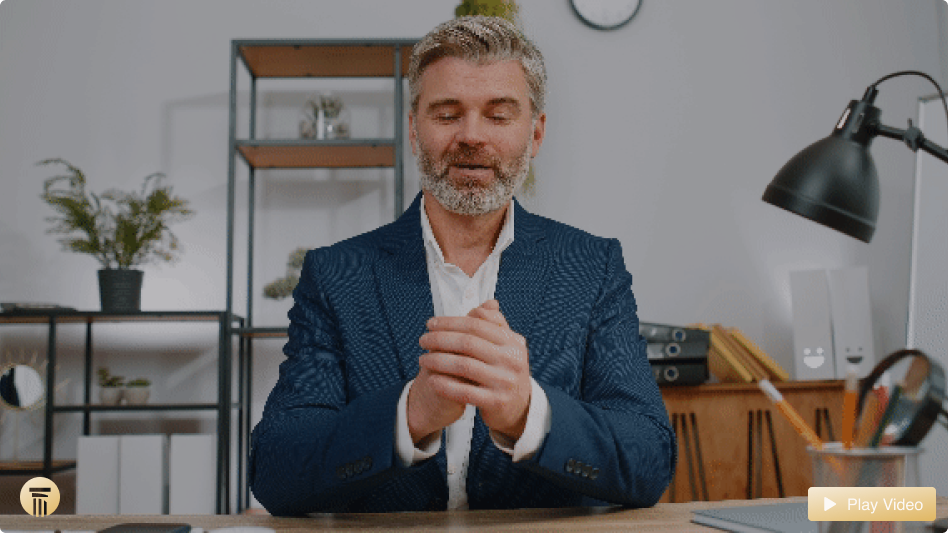
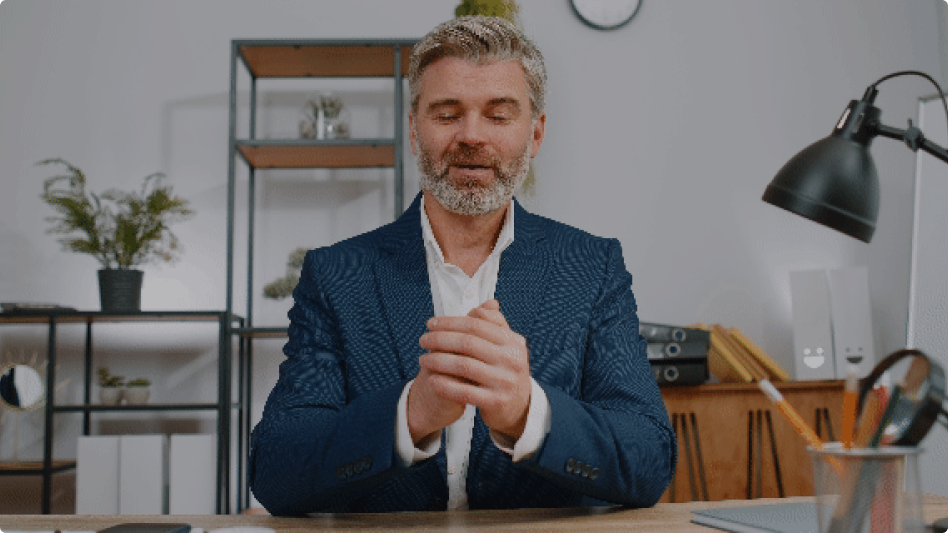
second-section-completed

Changed region(s): [[0.8259, 0.9006, 1.0, 0.9906], [0.0, 0.8705, 0.0612, 0.9906]]

diff --git a/index.html b/index.html
@@ -220,10 +220,36 @@
     <section class="overflow-hidden" id="about">
         <div class="container-2 pb-36 position-relative">
             <div class="d-flex flex-column align-items-center">
-                <a href="https://youtu.be/LXb3EKWsInQ?si=bEfPK1lP9tLC41yW" target="_blank">
+                <div class="position-relative d-none d-xl-block">
                     <img class="history-img-border position-relative w-100" src="./assets/images/History-paper-img.png"
                         alt="History-paper-img" />
-                </a>
+                    <svg class="position-absolute ellips-pos" width="40" height="40" viewBox="0 0 40 40" fill="none"
+                        xmlns="http://www.w3.org/2000/svg">
+                        <path
+                            d="M20.0125 0C8.94424 0 0 8.97751 0 20.0261C0 28.7475 5.54544 36.1638 13.3416 38.901V21.585C14.2112 21.4581 15.0807 21.3811 16 21.3811V39.642C16.8673 39.821 17.7639 39.9501 18.6584 40V21.585C19.5777 21.7391 20.497 21.943 21.3167 22.2262V40C22.2361 39.9501 23.1305 39.821 24 39.642V23.4272C24.3306 23.6062 24.6906 23.8101 24.9963 24.0412C25.61 24.4514 26.1715 24.9113 26.6833 25.4234V38.901C30.5689 37.546 33.8908 34.9878 36.2683 31.7136C38.6187 28.4144 40 24.3992 40 20.0261C40 8.97751 31.0535 0 20.0125 0ZM28.0125 20.051H12.0125V16.0358C18.1466 16.0358 23.7441 17.0079 28.0125 18.5691V20.051ZM30.6708 14.7057H9.32918V10.7155H30.6708V14.7057Z"
+                            fill="url(#paint0_linear_41260_10542)" />
+                        <defs>
+                            <linearGradient id="paint0_linear_41260_10542" x1="0" y1="0" x2="29.6532" y2="45.2991"
+                                gradientUnits="userSpaceOnUse">
+                                <stop stop-color="#F4EAD8" />
+                                <stop offset="1" stop-color="#E0B764" />
+                            </linearGradient>
+                        </defs>
+                    </svg>
+
+                    <button class="position-absolute img-btn d-flex gap-2 align-items-center button-pos">
+                        <span class="d-flex align-items-center"><svg width="13" height="16" viewBox="0 0 13 16"
+                                fill="none" xmlns="http://www.w3.org/2000/svg">
+                                <path
+                                    d="M11.6043 7.14679C12.2422 7.53675 12.2422 8.46325 11.6043 8.85321L1.77158 14.8641C1.10523 15.2714 0.249999 14.7919 0.249999 14.0109L0.25 1.98913C0.25 1.20814 1.10523 0.72858 1.77157 1.13593L11.6043 7.14679Z"
+                                    fill="#FCF9F6" />
+                            </svg>
+                        </span>
+                        <span class=" ff-helve fw-400 text-16 lh-25 color-lightwhite">Play Video</span>
+                    </button>
+                </div>
+                <img class="d-block d-xl-none history-img-border w-100" src="./assets/images/History-paper-img2.webp"
+                    alt="History-paper-img2">
                 <h3 class="ff-helve fw-700 text-48 lh-md-55 text-center color-darkblack mb-0 max-w-524 mt-25 mb-0">
                     Start Writing Your Own History Paper
                 </h3>

diff --git a/assets/css/style.css b/assets/css/style.css
@@ -768,14 +768,14 @@ li .active::after {
     height: var(--bs-accordion-btn-icon-width);
     margin-left: auto;
     content: "";
-    background-image: url(../images/accordian+icon.svg) !important;
+    background-image: url(../images/accodion_svg.svg) !important;
     background-repeat: no-repeat;
     background-size: var(--bs-accordion-btn-icon-width);
     transition: 0.3s ease-in-out;
 }
 
 .accordion-button:not(.collapsed)::after {
-    background-image: url(../images/minus-img.png) !important;
+    background-image: url(../images/minus-sign.svg) !important;
     transform: var(--bs-accordion-btn-icon-transform);
 }
 
@@ -839,6 +839,25 @@ li .active::after {
     gap: 24px;
 }
 
+.ellips-pos {
+    bottom: 5%;
+    left: 4%;
+    z-index: 5;
+}
+
+.img-btn {
+    padding: 4px 12px;
+    background: linear-gradient(146.79deg, #F4EAD8 0%, #E0B764 97.77%);
+    border-radius: 4px;
+    border: none;
+}
+
+.button-pos {
+    bottom: 5%;
+    right: 4%;
+    z-index: 5;
+}
+
 .max-w-534 {
     max-width: 534px;
 }
@@ -891,7 +910,7 @@ li .active::after {
 }
 
 .history-tabs {
-    width: 282px;
+    min-width: 282px;
     border-bottom: 1px solid #FFFFFF52;
     border-left: 0px solid transparent;
     border-top: 0px solid transparent;
@@ -995,7 +1014,7 @@ li .active::after {
     left: -35%;
 }
 
-.bg-accordian { 
+.bg-accordian {
     background-image: url(../images/accodion_bg_img.png);
     background-position: center;
     background-repeat: no-repeat;
